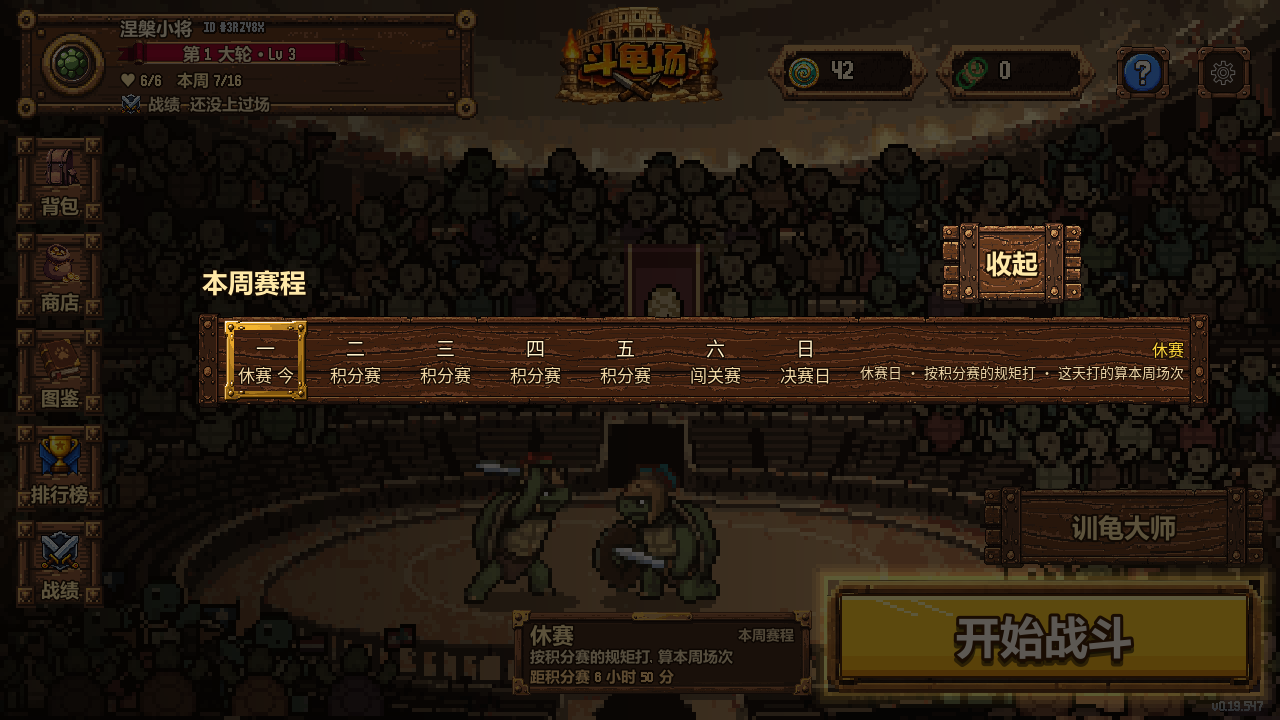
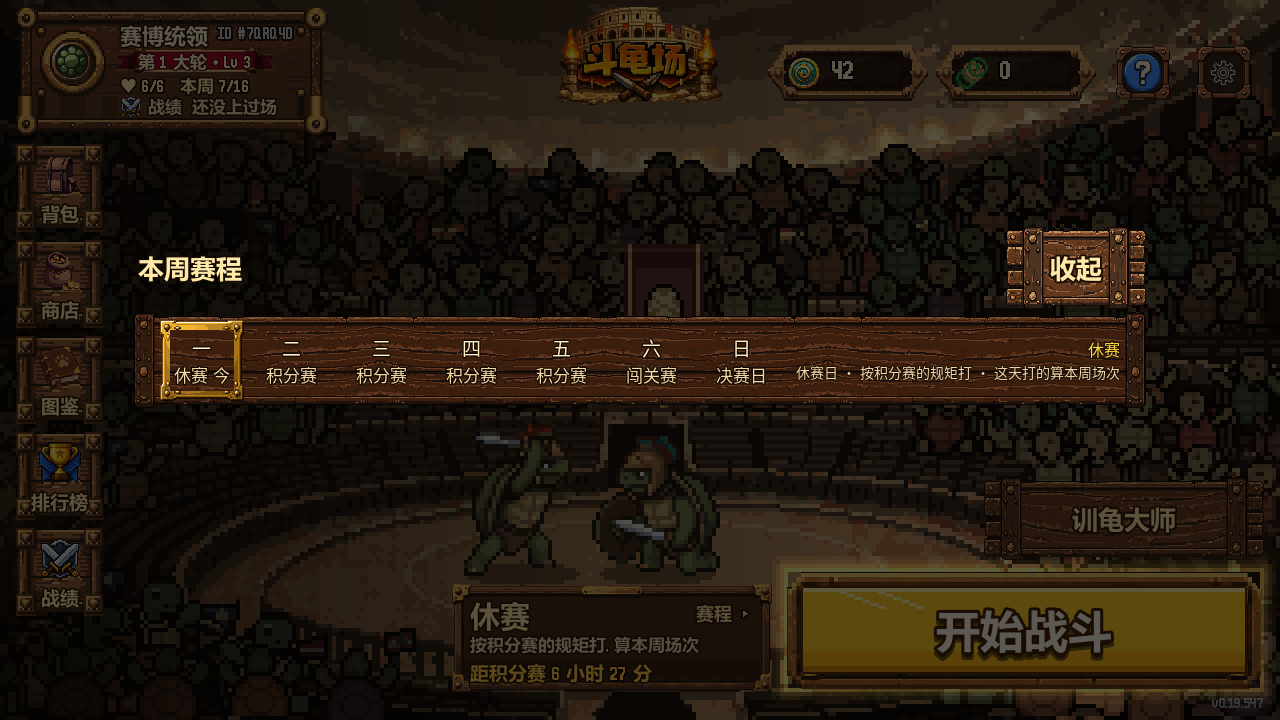
fix(mainmenu-hub): 返工四条 —— 模式卡与开始战斗成组 / 玩家卡字大且收窄 / 赛程弹层表头一行 + 点外面关 / 版本号整行在屏内
- 模式卡 320×108: 与开始战斗同底沿、间距 12、高 ≥85%; 赛制名 30 号, 规矩 17 号, 倒计时单独一行亮色 + 压暗底带, 右上「赛程 ▸」。
  为腾出卡顶, 擂台生成器 FOOT_Y 151 → 144(两只角斗龟抬 28px, 仍完整露出; DESAT / LEFT_DIM 未动), 开始战斗放大到 480×124 仍是全屏最大
- 玩家卡: 昵称 22 号, 其余 17 号; 卡宽跟着内容收; 「战绩-还没上过场」那道横线 = 战绩行压在底边铜线上 ⇒ 卡底板插 18 行木面(130 高), 「战绩」与读数拆两段
- 弹层: 标题与「收起」同一行贴在条子上沿(跟条子真实宽度对齐); 点压暗处(含宽屏两侧)也能关, 压暗只在打开时存在
- 版本号底沿离屏底 3px
门禁: verify_mainmenu_layout 新增 ⓐ2 / ⓔ / ⓕ2 / ⑨ 判据, 19 个变异 N1~N19 逐个反向验证都红; 相关 37 个测试 + 61 个审计器 + 冒烟全绿。

Changed region(s): [[0.0, 0.0, 0.9688, 0.8556], [0.3438, 0.5806, 1.0, 1.0]]

diff --git a/tools/build_menu_hud.py b/tools/build_menu_hud.py
@@ -140,7 +140,15 @@ def main():
 
     card = Image.open(os.path.join(SRC, "card.png")).convert("RGBA")
     ## 卡宽 462 = 主菜单 CARD_SIZE.x: 直接烘成成品宽, 游戏里 1:1 贴, 中段不 TILE 不拉伸(TILE 实拍有一道竖接缝)
-    out["card.png"] = widen(up(card.crop(card.getbbox()), 2), 112, 40, 462)   # 462×112
+    ## 第三轮返工: 卡宽跟着内容收(游戏里九宫格只横向压中段木纹), 这里烘最宽那一档 456;
+    ##   竖向在**圆环下面的木面**(第 90 行)插 18 行 ⇒ 130 高, 木面 16..111 装得下昵称 22 号 + 三行 17 号,
+    ##   战绩那行不再压到底边的铜线上(上一版实拍「战绩-还没上过场」那道横线就是底边铜线从字缝里露出来)。
+    cw = widen(up(card.crop(card.getbbox()), 2), 112, 40, 456)
+    rows = list(range(0, 90)) + [90] * 18 + list(range(90, cw.height))
+    ct = Image.new("RGBA", (cw.width, len(rows)))
+    for i, r in enumerate(rows):
+        ct.paste(cw.crop((0, r, cw.width, r + 1)), (0, i))
+    out["card.png"] = ct                                               # 456×130
     av = Image.open(os.path.join(SRC, "avatar.png")).convert("RGBA")
     out["avatar.png"] = av.crop(av.getbbox())                          # 40×40
     sq = Image.open(os.path.join(SRC, "sqbtn.png")).convert("RGBA")
@@ -158,13 +166,13 @@ def main():
         for x in range(12, 136):
             if mp[x, y][3] > 0:
                 mp[x, y] = face
-    rows = list(range(0, 42)) + list(range(40, 42)) + list(range(42, mc.height))   # 竖向插 2 行木面 ⇒ 86 高
+    rows = list(range(0, 42)) + [42] * 24 + list(range(42, mc.height))   # 竖向插 24 行平木面 ⇒ 108 高(与开始战斗同一档高度)
     tall = Image.new("RGBA", (mc.width, len(rows)))
     for i, r in enumerate(rows):
         tall.paste(mc.crop((0, r, mc.width, r + 1)), (0, i))
     ## 横向接长到 300(= 主菜单 MODE_SIZE, 1:1): 顶铜条只能有一块且居中 ⇒ 左角 | 填充 | 铜条 | 填充 | 右角,
     ##   填充取铜条左边那段素木(28..42), 正反交替拼。
-    W = 300
+    W = 320
     left, head, right = tall.crop((0, 0, 28, tall.height)), tall.crop((42, 0, 106, tall.height)), tall.crop((tall.width - 28, 0, tall.width, tall.height))
     fill = tall.crop((28, 0, 42, tall.height))
     room = W - left.width - head.width - right.width
@@ -177,7 +185,7 @@ def main():
     mcw = Image.new("RGBA", (W, tall.height)); x = 0
     for part in (left, band(room // 2), head, band(room - room // 2), right):
         mcw.paste(part, (x, 0)); x += part.width
-    out["modecard.png"] = mcw                                          # 300×86
+    out["modecard.png"] = mcw                                          # 320×108
 
     out["cta-face.png"] = cta_face()
 

diff --git a/tools/build_menu_arena_bg.py b/tools/build_menu_arena_bg.py
@@ -78,7 +78,7 @@ FILL = 0.74
 #   ★叠真 UI 实拍后定的: 1280 与 1560 两个比例下, UI 落在原生坐标上是同一个位置
 #   (背景按高度 ×4 铺满, 内容框 1280 居中 ⇒ 内容 x = (原生x − 35 − 裁边)×4)。
 #   左栏文字右沿 ≈ 原生 142, 主 CTA 左沿 = 原生 218(+5 裁边) ⇒ 两只挤在 145~220 之间。
-ATK_X, DEF_X, FOOT_Y = 170, 204, 151
+ATK_X, DEF_X, FOOT_Y = 170, 204, 144   # 2026-10-05 第三轮: 151 → 144, 让脚抬 28px 给右下「今天」模式卡(与开始战斗同高同底)
 BANNER_X, BANNER_TOP = 206, 57        # 一面小旗挂在入场门正上方的看台沿下(离 LOGO 远, 也不压按钮)
 
 # 火盆: (左上角 x, 左上角 y, 是否镜像)

diff --git a/docs/plans/20260917-主菜单版式重做.md b/docs/plans/20260917-主菜单版式重做.md
@@ -361,3 +361,4 @@ Game UI Database 本轮被 Cloudflare 挡住（curl 也 403），主菜单那几
 | 2026-10-05 | 第二轮的参考选错了（19 张里 9 张不是主菜单，其余多是单机标题菜单） | 用户原话：「额，你参考了谁的」「别再瞎看了好吗」「你自己找」「去网上搜」。⇒ 参考固定成 **6 张手游主大厅**（荒野乱斗 ×2 / 英雄联盟手游 / 使命召唤手游 / 刀塔霸业 / 皇室战争竖屏只看布局），`docs/plans/ref/20261005-手游大厅/`，出处 `sources.tsv`；骨架表见「第三轮」一节。只取布局骨架，不学画风与形状 |
 | 2026-10-05 | 第三轮：照骨架重排（未发版、未升版本号） | ✅ 左上**玩家信息卡**（铭牌木板 + 黄铜圆环里放龟壳铜徽章头像 · 昵称 + ID · 绶带上「第 N 大轮 · Lv」· 今天行 · 战绩行，整卡可点 → 战绩）；Logo 缩到 180 宽挪到**顶部居中**（理由见第三轮表）；右上**货币一行 + ? / ⚙**（看得见的方框 82 → 54，点击区仍 81）；左侧 **5 颗 88×88 方形图标键**（背包 / 商店 / 图鉴 / 排行榜 / 战绩，图标在上字在下，右上角红点槽默认藏着；商店锁 = 压灰 + 🔒 角标 + 右边常驻短理由，点了照旧飘长句）；右下**开始战斗 440×120**，木框 + 呼吸光晕照旧（R2），框里新铺一块**亮黄面**，是全屏唯一的实心亮色；它左边 **「今天」模式卡** 300×86（今天的赛制 · 一句规矩 · 倒计时），**点开 = 原来那条七天赛程条**（组件原样复用，收进弹层，赛程逻辑与数据一字未动）；训龟大师 240×82 贴在开始战斗正上方；版本号在开始战斗下面那 24px。新素材全部本轮新做：PixelLab 新生成 `src/card.png` `src/avatar.png` `src/sqbtn.png` `src/modecard.png`（4 次生成），亮黄面 `cta-face.png` 由 `tools/build_menu_hud.py` 按像素直接画；左栏短木牌 `plaque.png` 随版式下线。背景 / DESAT / LEFT_DIM 未动 |
 | 2026-10-05 | 第三轮门禁 | ✅ `verify_mainmenu_layout` 换判据 ⓐ~ⓕ（左上玩家卡 / 右上货币 + ?⚙ / 左列方键 / 开始战斗最大且唯一亮黄 / 模式卡在它左边且说今天 / 点模式卡弹出整周赛程）+ ⑨ 版本号不被盖住；**30 个变异逐个打过，每个都在对应那一节红**（M1~M29 + M6b：卡挪离左上、Logo 回左上、昵称写死、卡上没 ID、卡底板只铺一半、头像没图、卡不可点、货币不同行、?⚙ 回大框、?⚙ 不贴右沿、图标掉到字下、去掉红点槽、方键不方、不等距、换皮、主 CTA 变小、模式卡刷亮黄、不铺亮黄面、亮黄面出框、模式卡挪走、底沿不齐、模式卡比主 CTA 大、写死积分赛、只认真实今天、点卡不开、收起关不掉、弹层默认开着、弹层不置顶、赛程条贴回主屏、版本号被盖）。`verify_week_strip` ⑦d 换判据（条子不再贴底 ⇒「不压左栏」改成「点开模式卡后看得见、整条在屏内」，七天都先真按一下模式卡再量）；`verify_quota_clock` 读商店锁改成读整颗方键的子树。成图 `img-20261005-主菜单大厅/final-1560.png` `final-1280.png`，点开模式卡 `final-popup-1280.png` |
+| 2026-10-05 | 第三轮返工（主会话看 final-1560 / popup 后提的 4 条） | ✅ ① **模式卡**照荒野乱斗 PLAY 旁那块活动卡：320×108，与开始战斗**同底沿、间距 12、高度 ≥ 85%**；赛制名 30 号、规矩 17 号、倒计时单独一行亮色 + 压暗底带；右上「赛程 ▸」。为腾出卡顶，生成器把两只角斗龟的脚底线 `FOOT_Y` 151 → 144（抬 28px，龟仍完整露出，⑮e 量真框；DESAT / LEFT_DIM 未动）。开始战斗相应放大到 480×124（仍是全屏最大）。② **玩家卡**昵称 22 号、ID / 大轮 / 本周 / 战绩 17 号；卡宽**跟着内容收**（今天 ~310，原 462）；「战绩-还没上过场」那道横线的真因是战绩那行压在卡底边铜线上、铜线从字缝里露出来 ⇒ 卡底板在圆环下面插 18 行木面（130 高），「战绩」与读数拆成两段、中间 10px 真空白。③ **弹层**标题与「收起」同一行贴在条子上沿（跟着条子真实宽度对齐左右端）；点压暗处（含宽屏两侧）也能关，压暗色块只在打开时存在。④ 版本号底沿离屏底 3px。新判据 ⓐ2 / ⓔ（组、高度、字号、倒计时独行高亮、▸）/ ⓕ2 / ⑨，**19 个变异（N1~N19）逐个反向验证都红** |
